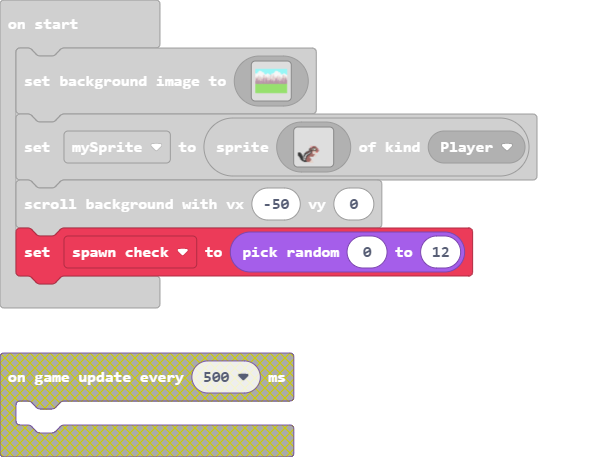
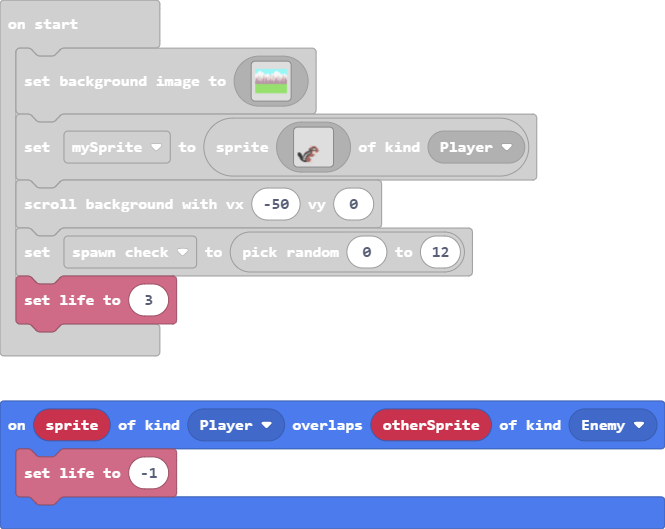
Update main.blocks, main.ts

diff --git a/main.ts b/main.ts
@@ -266,6 +266,9 @@ function plane_spawn () {
     plane.setPosition(randint(160, 200), 40)
     plane.setFlag(SpriteFlag.AutoDestroy, true)
 }
+sprites.onOverlap(SpriteKind.Player, SpriteKind.Enemy, function (sprite, otherSprite) {
+    info.setLife(-1)
+})
 let plane: Sprite = null
 let acorn: Sprite = null
 let car: Sprite = null
@@ -397,3 +400,4 @@ scene.setBackgroundImage(img`
 mySprite = sprites.create(assets.image`Squirrel`, SpriteKind.Player)
 scroller.scrollBackgroundWithSpeed(-50, 0)
 let spawn_check = randint(0, 12)
+info.setLife(3)
